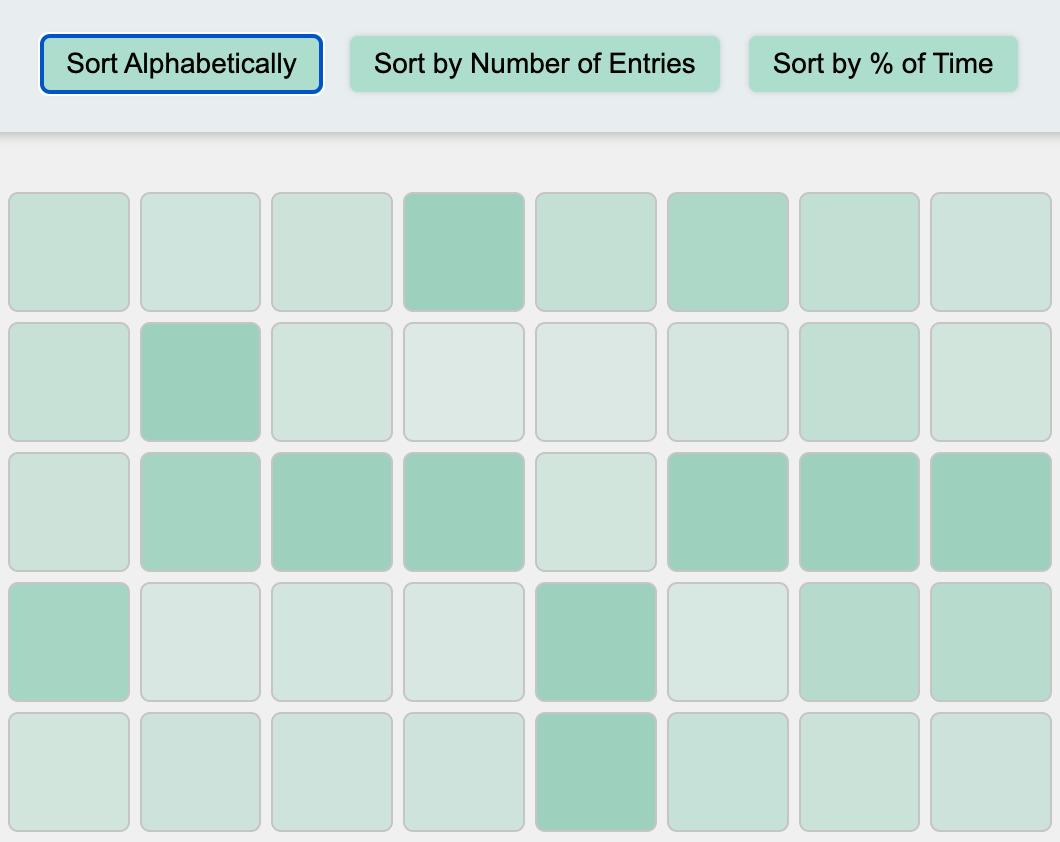
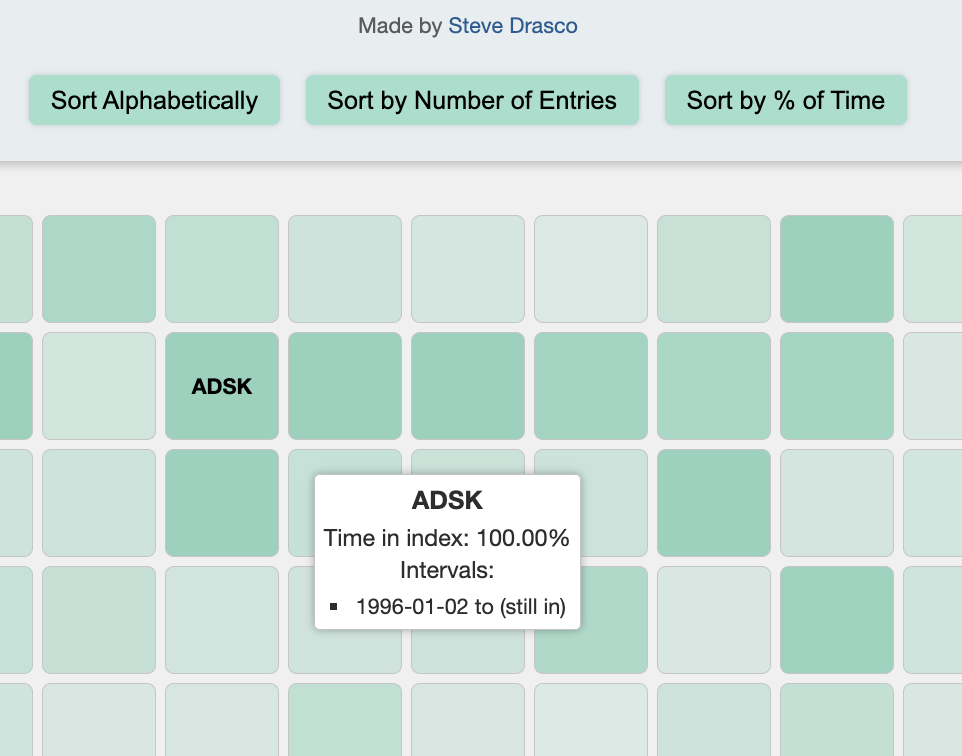
edit readme

diff --git a/README.md b/README.md
@@ -10,7 +10,7 @@ We’re starting with William O’Neil’s CANSLIM strategy.  He seemed ripe for
 
 ## Project Progress Highlights
 
-- **2024-12-12**: Made a [fun interative visualization of the S&P 500 historical constituents](https://backboard.uk/html/sp500.html).
+- **2024-12-12**: While working on index and market proxy consistancy, made an [interactive visualization of the S&P 500 constituents over time](https://backboard.uk/html/sp500.html).
 - **2024-12-11**: Each of CANSLIM validated. [Reports](https://backboard.uk/html/backtest_report.html) now more descriptive. Metrics use money market proxy.
 - **2024-12-10**: Now have unique reports for each strategy. The L and A in CANSLIM need work.
 - **2024-12-09**: First full pipeline execution with backtesting and reporting; NaNs and flat lines in outputs, will debug further.
